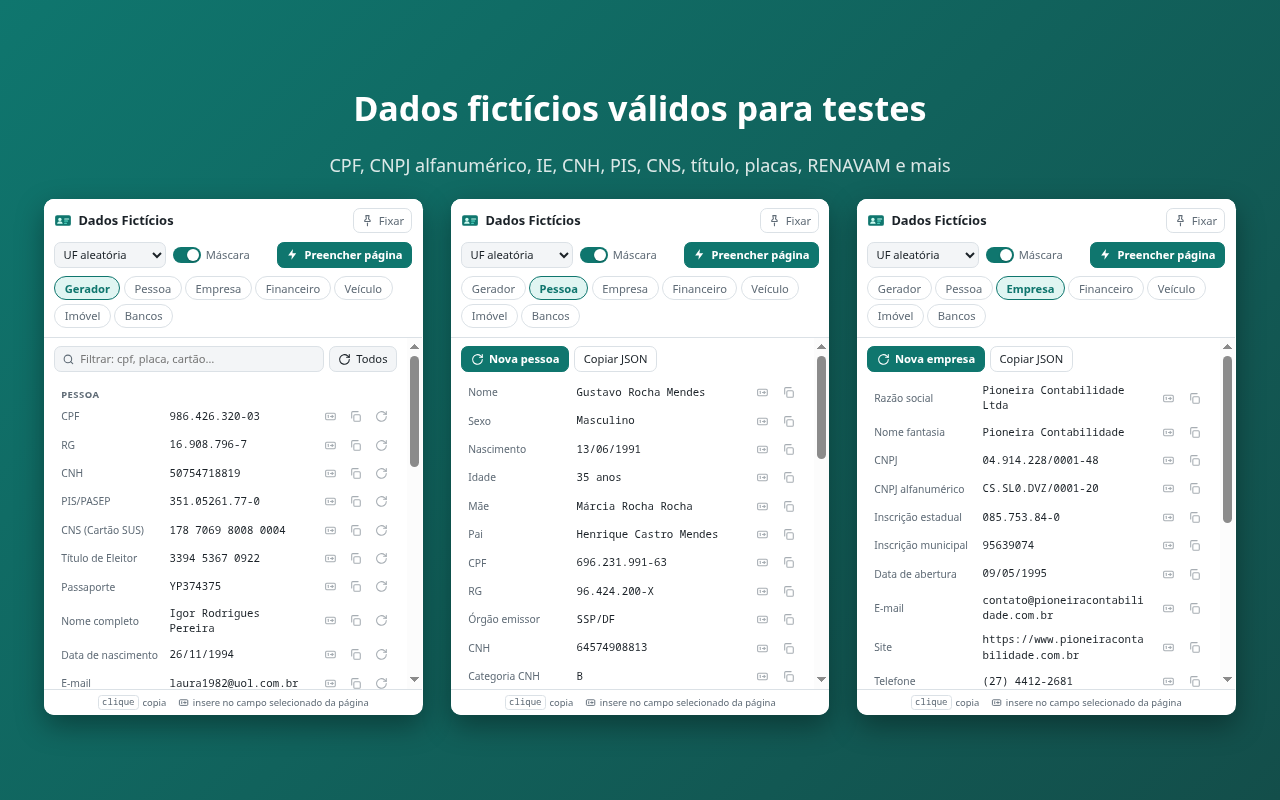
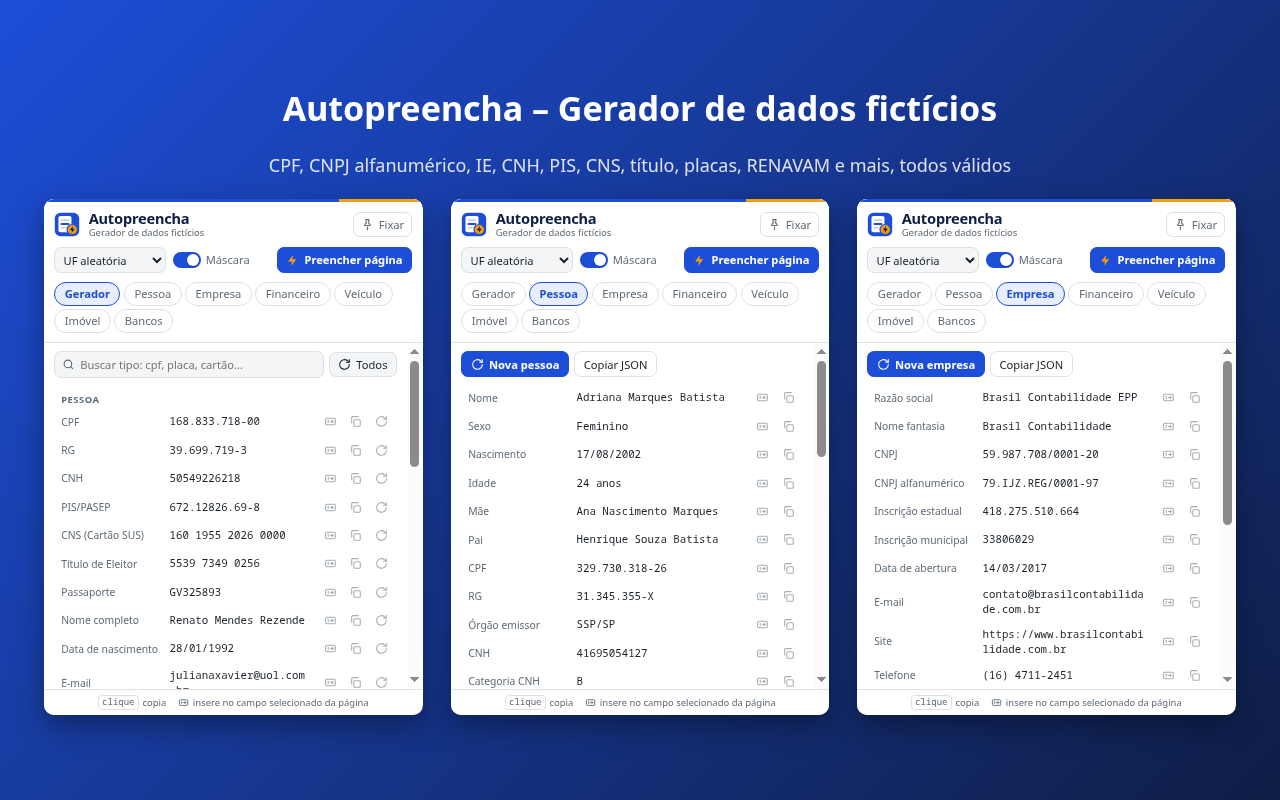
feat: nova identidade "Autopreencha – Gerador de dados fictícios" (v1.2.0)
- Nome escolhido por não colidir com extensões existentes no AMO e caber
  no limite de 50 caracteres da loja
- Ícone novo (ficha com campo preenchido + selo de preenchimento automático)
  e paleta azul com destaque âmbar
- Cabeçalho com nome e descritor; menu de contexto, atalhos, README,
  textos e capturas da loja atualizados
- ID da extensão: autopreencha@ryanfauder (antes da primeira publicação)

diff --git a/src/popup/popup.css b/src/popup/popup.css
@@ -5,10 +5,12 @@
   --border: #dbe1e6;
   --text: #1b2228;
   --muted: #5f6b76;
-  --accent: #0f766e;
-  --accent-hover: #115e59;
-  --accent-soft: #e0f5f2;
+  --accent: #1d4ed8;
+  --accent-hover: #1e40af;
+  --accent-soft: #e8eefd;
   --on-accent: #ffffff;
+  --brand-amber: #f59e0b;
+  --brand-ink: #0f1e46;
   --success: #15803d;
   --success-soft: #dcfce7;
   --mono: ui-monospace, "SFMono-Regular", "JetBrains Mono", Menlo, Consolas, monospace;
@@ -24,10 +26,12 @@
     --border: #383f47;
     --text: #e7ebef;
     --muted: #9aa6b1;
-    --accent: #2dd4bf;
-    --accent-hover: #5eead4;
-    --accent-soft: #163c39;
-    --on-accent: #062925;
+    --accent: #7aa2ff;
+    --accent-hover: #a5c0ff;
+    --accent-soft: #1a2547;
+    --on-accent: #0b1530;
+    --brand-amber: #fbbf24;
+    --brand-ink: #e7ebef;
     --success: #4ade80;
     --success-soft: #173a25;
     color-scheme: dark;
@@ -62,12 +66,19 @@ svg { width: 15px; height: 15px; flex: none; }
 /* ---------------------------------------------------------------- cabeçalho */
 
 .top { flex: none; border-bottom: 1px solid var(--border); background: var(--bg); }
+/* Faixa da marca: azul da ficha + âmbar do selo de preenchimento. */
+.top::before {
+  content: ""; display: block; height: 3px;
+  background: linear-gradient(90deg, var(--accent) 0 78%, var(--brand-amber) 78% 100%);
+}
 
 .title-row {
   display: flex; align-items: center; justify-content: space-between; gap: 8px; padding: 10px 12px 6px;
 }
-.brand { display: flex; align-items: center; gap: 8px; min-width: 0; }
-h1 { font-size: 15px; margin: 0; font-weight: 650; white-space: nowrap; }
+.brand { display: flex; align-items: center; gap: 10px; min-width: 0; }
+.wordmark { display: flex; flex-direction: column; line-height: 1.15; }
+h1 { font-size: 17px; margin: 0; font-weight: 750; letter-spacing: -.015em; color: var(--brand-ink); white-space: nowrap; }
+.tagline { margin: 1px 0 0; font-size: 11px; color: var(--muted); white-space: nowrap; }
 
 .toolbar { display: flex; flex-wrap: wrap; align-items: center; gap: 8px; padding: 4px 12px 10px; }
 .toolbar .primary { margin-left: auto; }
@@ -85,6 +96,7 @@ button {
 button:hover { background: var(--surface-hover); }
 button:active { transform: translateY(1px); }
 button.primary, button.accent { background: var(--accent); border-color: var(--accent); color: var(--on-accent); font-weight: 600; }
+button.primary svg { color: var(--brand-amber); }
 button.primary:hover, button.accent:hover { background: var(--accent-hover); border-color: var(--accent-hover); }
 button.ghost { background: transparent; }
 button.ghost:hover { background: var(--surface); }

diff --git a/src/popup/popup.html b/src/popup/popup.html
@@ -3,15 +3,18 @@
 <head>
   <meta charset="utf-8">
   <meta name="viewport" content="width=device-width, initial-scale=1">
-  <title>Dados Fictícios</title>
+  <title>Autopreencha</title>
   <link rel="stylesheet" href="popup.css">
 </head>
 <body>
   <header class="top">
     <div class="title-row">
       <div class="brand">
-        <img src="../icons/icon.svg" alt="" width="20" height="20">
-        <h1>Dados Fictícios</h1>
+        <img src="../icons/icon.svg" alt="" width="30" height="30">
+        <div class="wordmark">
+          <h1>Autopreencha</h1>
+          <p class="tagline">Gerador de dados fictícios</p>
+        </div>
       </div>
       <button id="pin" class="icon-btn" type="button" aria-label="Fixar na barra lateral" title="Fixar na barra lateral (fica aberto enquanto você usa a página)">
         <svg aria-hidden="true"><use href="#i-pin"/></svg>
@@ -52,7 +55,7 @@
         <label class="search">
           <svg aria-hidden="true"><use href="#i-search"/></svg>
           <span class="sr-only">Filtrar tipos</span>
-          <input id="filter" type="search" placeholder="Filtrar: cpf, placa, cartão…" autocomplete="off">
+          <input id="filter" type="search" placeholder="Buscar tipo: cpf, placa, cartão…" autocomplete="off">
         </label>
         <button type="button" data-action="regen-quick" title="Gerar novos valores para todos">
           <svg aria-hidden="true"><use href="#i-refresh"/></svg> Todos

diff --git a/src/background.js b/src/background.js
@@ -10,7 +10,7 @@ async function buildMenus() {
   await browser.menus.removeAll();
   const { mask } = await getSettings();
 
-  browser.menus.create({ id: 'fd-root', title: 'Dados fictícios', contexts: ['editable', 'page'] });
+  browser.menus.create({ id: 'fd-root', title: 'Autopreencha', contexts: ['editable', 'page'] });
   browser.menus.create({ id: 'fd-fill', parentId: 'fd-root', title: 'Preencher formulário inteiro', contexts: ['editable', 'page'] });
   browser.menus.create({ id: 'fd-sep1', parentId: 'fd-root', type: 'separator', contexts: ['editable'] });
 

diff --git a/src/popup/popup.js b/src/popup/popup.js
@@ -362,7 +362,7 @@ $('#fill').addEventListener('click', async () => {
     if (!(await access)) { toast('Permissão negada para acessar a página'); return; }
     const tab = await activeTab();
     const n = await browser.runtime.sendMessage({ type: 'fill-form', tabId: tab.id });
-    toast(n ? `${n} campo(s) preenchido(s)` : 'Nenhum campo reconhecido nesta página');
+    toast(n ? `${n} campo(s) autopreenchido(s)` : 'Nenhum campo reconhecido nesta página');
   } catch {
     toast('Esta página não permite preenchimento');
   }

diff --git a/store/PUBLICACAO.md b/store/PUBLICACAO.md
@@ -43,13 +43,13 @@ aparece na busca do AMO.
 
 ## Textos da ficha
 
-**Nome**
-Gerador de Dados Fictícios BR
+**Nome** (41 de 50 caracteres permitidos)
+Autopreencha – Gerador de dados fictícios
 
 **Resumo** (até 250 caracteres)
-Gere CPF, CNPJ (inclusive alfanumérico), RG, CNH, PIS, CNS, título, Inscrição Estadual, cartão, conta,
-placa, RENAVAM, endereço e imóvel válidos para testes. Copie, insira no campo ou preencha o formulário
-inteiro com um clique.
+Preenchimento automático de formulários com dados fictícios válidos: CPF, CNPJ (inclusive alfanumérico),
+RG, CNH, PIS, CNS, título, Inscrição Estadual, cartão, conta, placa, RENAVAM, endereço e imóvel. Para
+testes de software.
 
 **Categoria**
 Ferramentas de desenvolvimento (Web Development)
@@ -64,8 +64,8 @@ Não é necessária: a extensão não coleta, armazena remotamente nem transmite
 **Descrição**
 
 ```
-Gerador de dados fictícios brasileiros para desenvolvedores, QAs e estudantes testarem software.
-Todos os documentos têm dígitos verificadores válidos.
+Autopreencha preenche formulários com dados brasileiros fictícios para desenvolvedores, QAs e
+estudantes testarem software. Todos os documentos têm dígitos verificadores válidos.
 
 O QUE GERA
 • Pessoa: nome, nascimento, CPF, RG, CNH, PIS/PASEP, CNS (Cartão SUS), título de eleitor, passaporte,
@@ -81,7 +81,7 @@ COMO USAR
 • Clique em qualquer valor para copiar
 • Botão "inserir" coloca o valor direto no campo selecionado da página
 • "Preencher página" (Alt+Shift+P) preenche o formulário inteiro com uma mesma pessoa fictícia
-• Botão direito em um campo → Dados fictícios → escolha o tipo
+• Botão direito em um campo → Autopreencha → escolha o tipo
 • Fixe na barra lateral para mantê-la aberta enquanto testa
 • Com ou sem máscara, e coerente com a UF escolhida (endereço, DDD, CPF, título e IE)
 
@@ -107,5 +107,5 @@ Permissions:
 - clipboardWrite: copy values from the popup.
 
 To test: open any page with a form, click the toolbar icon, then "Preencher página";
-or right-click a text field → "Dados fictícios" → "Pessoa" → "CPF".
+or right-click a text field → "Autopreencha" → "Pessoa" → "CPF".
 ```

diff --git a/README.md b/README.md
@@ -1,4 +1,7 @@
-# Gerador de Dados Fictícios BR — extensão para Firefox
+<p align="center"><img src="store/icon-128.png" width="96" alt=""></p>
+
+<h1 align="center">Autopreencha</h1>
+<p align="center"><strong>Gerador de dados fictícios e preenchimento de formulários</strong> — extensão para Firefox</p>
 
 Gera dados brasileiros **fictícios e válidos** (com dígitos verificadores corretos) para testes de software.
 Funciona pelo popup da extensão, direto no campo pelo menu de contexto (botão direito) ou preenchendo o
@@ -30,7 +33,7 @@ título e inscrição estadual coerentes com o estado escolhido.
   continua aberta enquanto você usa a página. Popup e barra lateral ficam sincronizados.
 - **Inserir no campo**: o botão ao lado de cada valor insere o valor direto no campo que estava selecionado
   na página, sem copiar e colar. Na barra lateral, o Firefox pede uma vez a permissão de acesso às páginas.
-- **Menu de contexto**: clique com o botão direito num campo → *Dados fictícios* → escolha o tipo. O valor é
+- **Menu de contexto**: clique com o botão direito num campo → *Autopreencha* → escolha o tipo. O valor é
   inserido no campo, já convertido quando o campo é `type="date"`/`number` ou tem `maxlength` menor que o
   valor com máscara.
 - **Preencher formulário inteiro**: botão no popup, item no menu de contexto ou atalho **Alt+Shift+P**.

diff --git a/CHANGELOG.md b/CHANGELOG.md
@@ -3,6 +3,14 @@
 Formato baseado em [Keep a Changelog](https://keepachangelog.com/pt-BR/1.1.0/) e versionamento
 [SemVer](https://semver.org/lang/pt-BR/). A versão também fica em `src/manifest.json` e `package.json`.
 
+## [1.2.0] - 2026-11-08
+
+### Alterado
+- Nova identidade: a extensão passa a se chamar **Autopreencha – Gerador de dados fictícios**.
+- Ícone novo (ficha com campo preenchido e selo de preenchimento automático) e paleta azul com destaque âmbar.
+- Cabeçalho com nome e descritor; textos do menu de contexto, atalhos, loja e documentação atualizados.
+- ID da extensão alterado para `autopreencha@ryanfauder` (antes da primeira publicação).
+
 ## [1.1.1] - 2026-11-08
 
 ### Corrigido
